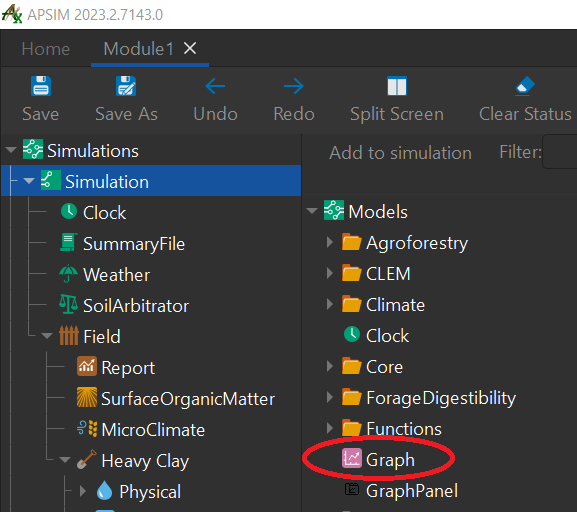
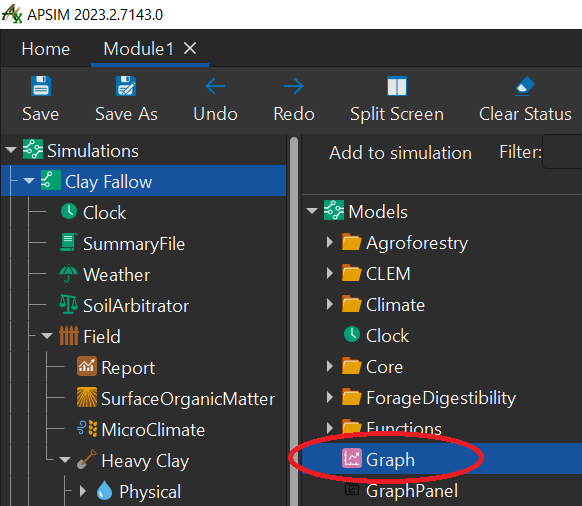
complete apsim next gen module one tutorial

diff --git a/Docs/content/User_tutorials/ModuleOne/ModuleOneTutorial.md b/Docs/content/User_tutorials/ModuleOne/ModuleOneTutorial.md
@@ -111,7 +111,9 @@ We will create a simulation that examines the water balance over time in a fallo
 
 	![New simulation structure](/images/ModuleOneImages/step18.png)
 
-16. Results for the simulation are found in the ‘DataStore’ node. The data that is reported into the datastore is configured in the "Report" node. Click the "Report" node and delete all the Variables under the "Reporting variables" section. To do this:
+16. Results for the simulation are found in the ‘DataStore’ node. 
+The data that is reported into the datastore is configured in the "Report" node. 
+Click the "Report" node and delete all the Variables under the "Reporting variables" section. To do this:
 	- Highlight all the text.
 	- Right-click the highlighted text and click "delete".
 
@@ -142,7 +144,7 @@ We will create a simulation that examines the water balance over time in a fallo
 
 	Your report view should now look like this:
 
-	![Deleting reporting variables](/images/ModuleOneImages/step20.png)
+	![Reporting variables](/images/ModuleOneImages/step20.png)
 
 	 You can choose a regular interval such as every day or once a month/year, etc, or you specify an event. 
 	 
@@ -173,7 +175,7 @@ We will create a graph of Date vs ESW and Rain(Right Hand Axis).
 1.	First lets delete the existing graph called: "Wheat Yield Time Series" by right-clicking the node and clicking "delete". ![Delete graph](/images/ModuleOneImages/step22.png)
 
 2.	Next lets create a new graph for this simulation.
-	- Right-click "Simulation"
+	- Right-click "Clay Fallow"
 	- Click "add model" ![add model](/images/ModuleOneImages/step23.png)
 	- Click "graph" this will add it to the list of nodes. ![add graph](/images/ModuleOneImages/step24.png)
 
@@ -195,20 +197,87 @@ We will create a graph of Date vs ESW and Rain(Right Hand Axis).
 5.	Let's add another series to the "Graph" node. Rename it "Rain".
 	- In the `Data Source` drop down menu, select `Report`.
 	- In the `X` drop down menu, select `Clock.Today`.
-	- In the `Y` drop down menu, select `Weather.Rain`. Also, tick "on right?" checkbox.
+	- In the `Y` drop down menu, select `Weather.Rain`. 
+		- Also, tick the "on right?" checkbox. This will add it to the right side of the graph.
 	- In the `Type` drop down menu, select `Scatter`.
 	- In the `Line Type` drop down menu, select `Solid`.
 	- In the `Marker type` drop down menu, select `None`.
 	- In the `Colour` drop down menu, select <span style="color:blue;">blue</span>.
 	- Your Rain series variables should now look like this: ![Rain graph variables](/images/ModuleOneImages/step27.png)
 
-6.	Click on the Plot sub component. Click on the ‘X variables’ square to make sure the background of the square is pink. Then click on the ‘Date’ column heading. It should appear in the list in the square.
+6.	If we click on the "Graph" node now it will display all the data like so
+	![Graphed data](/images/ModuleOneImages/step28.png)
 
-7.	Click on the ‘Y variables’ square to make its background pink. Click on the ‘esw’ column heading, and the ‘Rain’ column heading. They should be added to the list in the square. To make ‘Rain’ appear on the right hand axis, click ‘Rain’ in the square to highlight it, and then right click on it. In the popup menu click on ‘Right Hand Axis’.
+7.	Try to create a graph of Date vs Runoff and Rain (right hand axis). 
+		- Change the line type to "Dot". 
+		- Tip: you can copy a graph by dragging it to the node where you want it to appear. 
+		- Try copying your graph to the "Simulation" node and then edit the new one. 
+		- It should look like this:
+		![Runoff graph](/images/ModuleOneImages/step29.png)
 
-8.	We want a nice clean line to be plotted with no points so now under ‘Point type’ choose ‘None’.
+## Comparing Simulations
 
-9.	Now just click on the top level ESW component to view the graph. The graph should show the ESW (in mm) increasing with day of year. The sudden increases are due to rainfall events and the declines to evaporation and drainage loss. Daily rainfall will show this more clearly.
+Quite often you will want to examine differences between multiple simulations. 
+Let’s examine the effect of runoff on the water balance of two different soil types. 
+To do this, we’ll copy our simulation to create a new one exactly the same.
+
+1. Drag the "Clay Fallow" node up to the top simulations node. 
+Now drop it on the node to create a copy.
+![Copy Clay Fallow node](/images/ModuleOneImages/step30.png)
+
+2. Rename this new simulation "Sand Fallow".
+![Rename Simulation](/images/ModuleOneImages/step31.png)
+
+3. Drag the Sand soil from the Training toolbox onto the "Field" node under the new Sand Fallow simulation. 
+Then delete the Heavy Clay soil. 
+![Copy sand soil type](/images/ModuleOneImages/step32.png)
+
+4. Since we have a new soil we need to set initial water and nitrogen again.
+	- Click "Water" node and change variable "percent full" to 10% and check "filled from top?"
+	![Change water variables](/images/ModuleOneImages/step33.png)
+	- Click "NO3" node and change "0-2000" Depth value to: "0-1300".
+	- Change "ppm" to "kg/ha" by right-clicking "ppm" and clicking "kg/ha".
+	- Change the "initial value" to 50 and press enter.
+	- Next, click "NH4" node and change the "ppm" value to "kg/ha" like we did above with "NO3" node.
+	- Change Depth to "0-1300" and "initial value" to "3".
+	- Your nodes variables should look like below:
+<table>
+	<tr>
+
+		<td>
+		<p>NO3</p>
+		![NO3](/images/ModuleOneImages/step34.png)
+		</td>
+
+		<td>
+		<p>NH4</p>
+		![NH4](/images/ModuleOneImages/step35.png)
+		</td>
+
+	</tr>
+</table>
+
+## Graph both Simulations
+1. Next, run APSIM.
+2. Let's graph both the simulations together. To do this:
+	- Click "Simulation" node at the very top of the left panel.
+	- Click "Add model..."
+	- Click "Graph"
+	![Whole simulation graph](/images/ModuleOneImages/step36.png)
+3. Let's rename it "Runoff". 
+4. Let's add a series to this graph by right-clicking the "Graph", clicking "Add model...", and clicking "Series".
+5. Rename the series "runoff" and change the variables to match the image below.
+![runoff series variables](/images/ModuleOneImages/step37.png)
+6. Add another "series" to the "Runoff" graph and rename it "rain". 
+7. Change the variables to match the image below>
+![rain series variables](/images/ModuleOneImages/step38.png)
+8. Now we have a graph showing the runoff of both soils. 
+![Final graph](/images/ModuleOneImages/step39.png)
+
+ *Congratulations on completing your first module!*
+
+
+
 
 
 	
